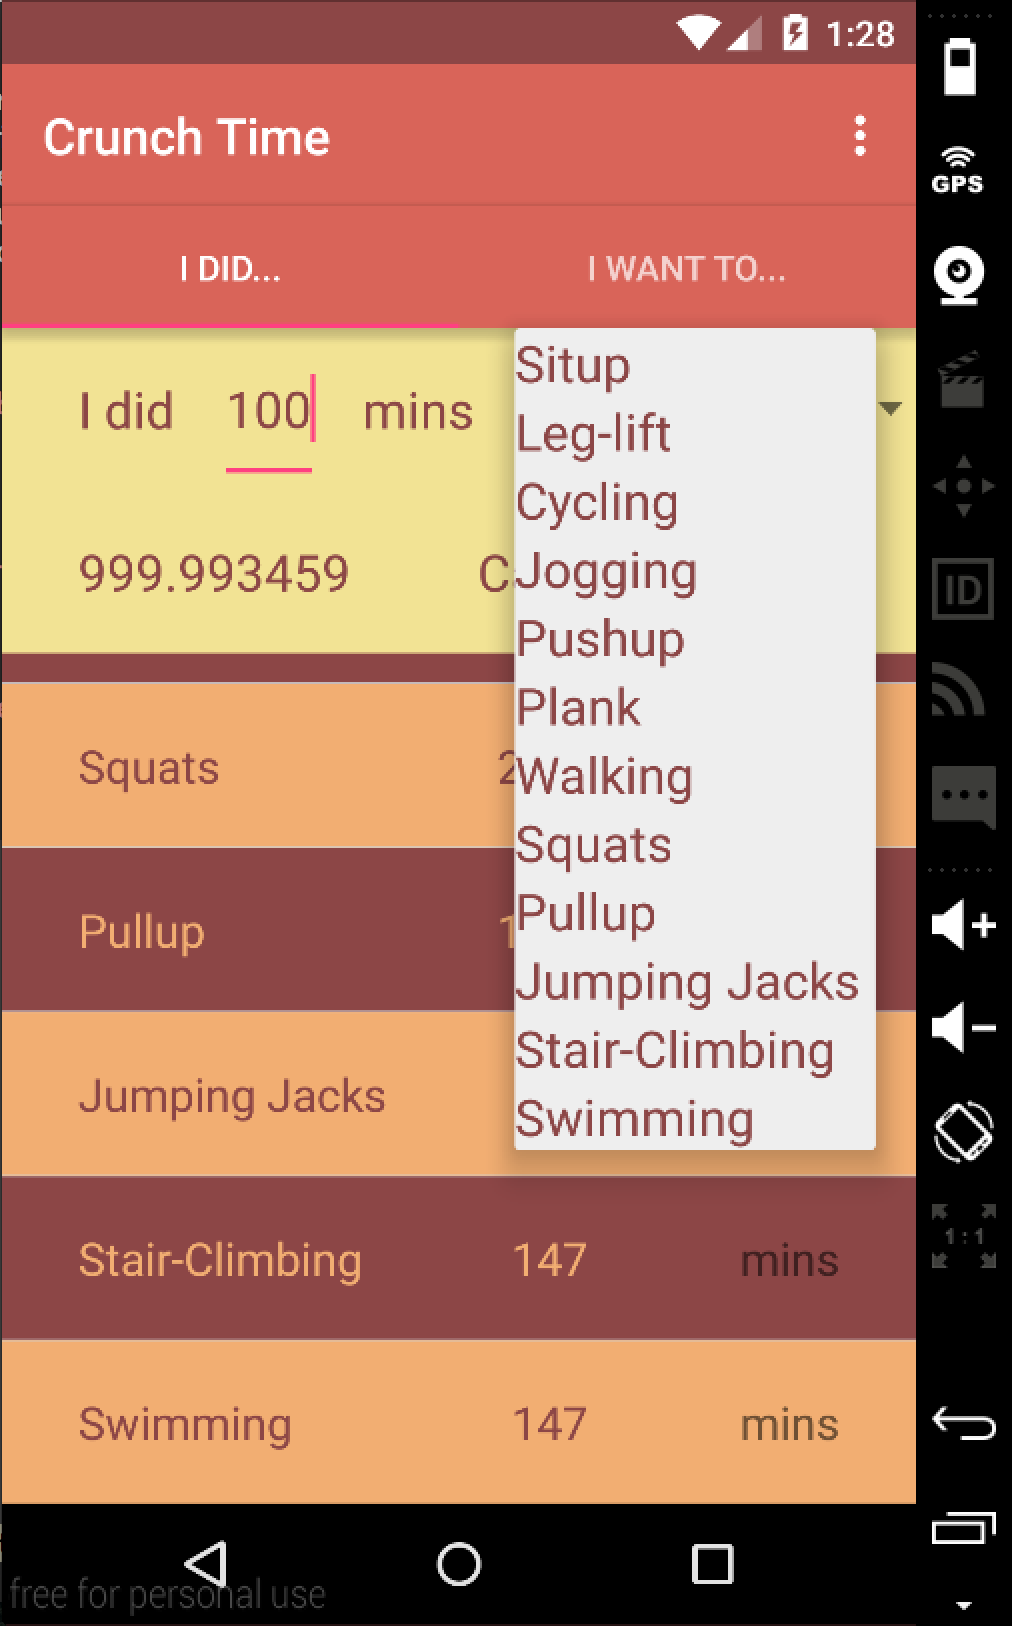
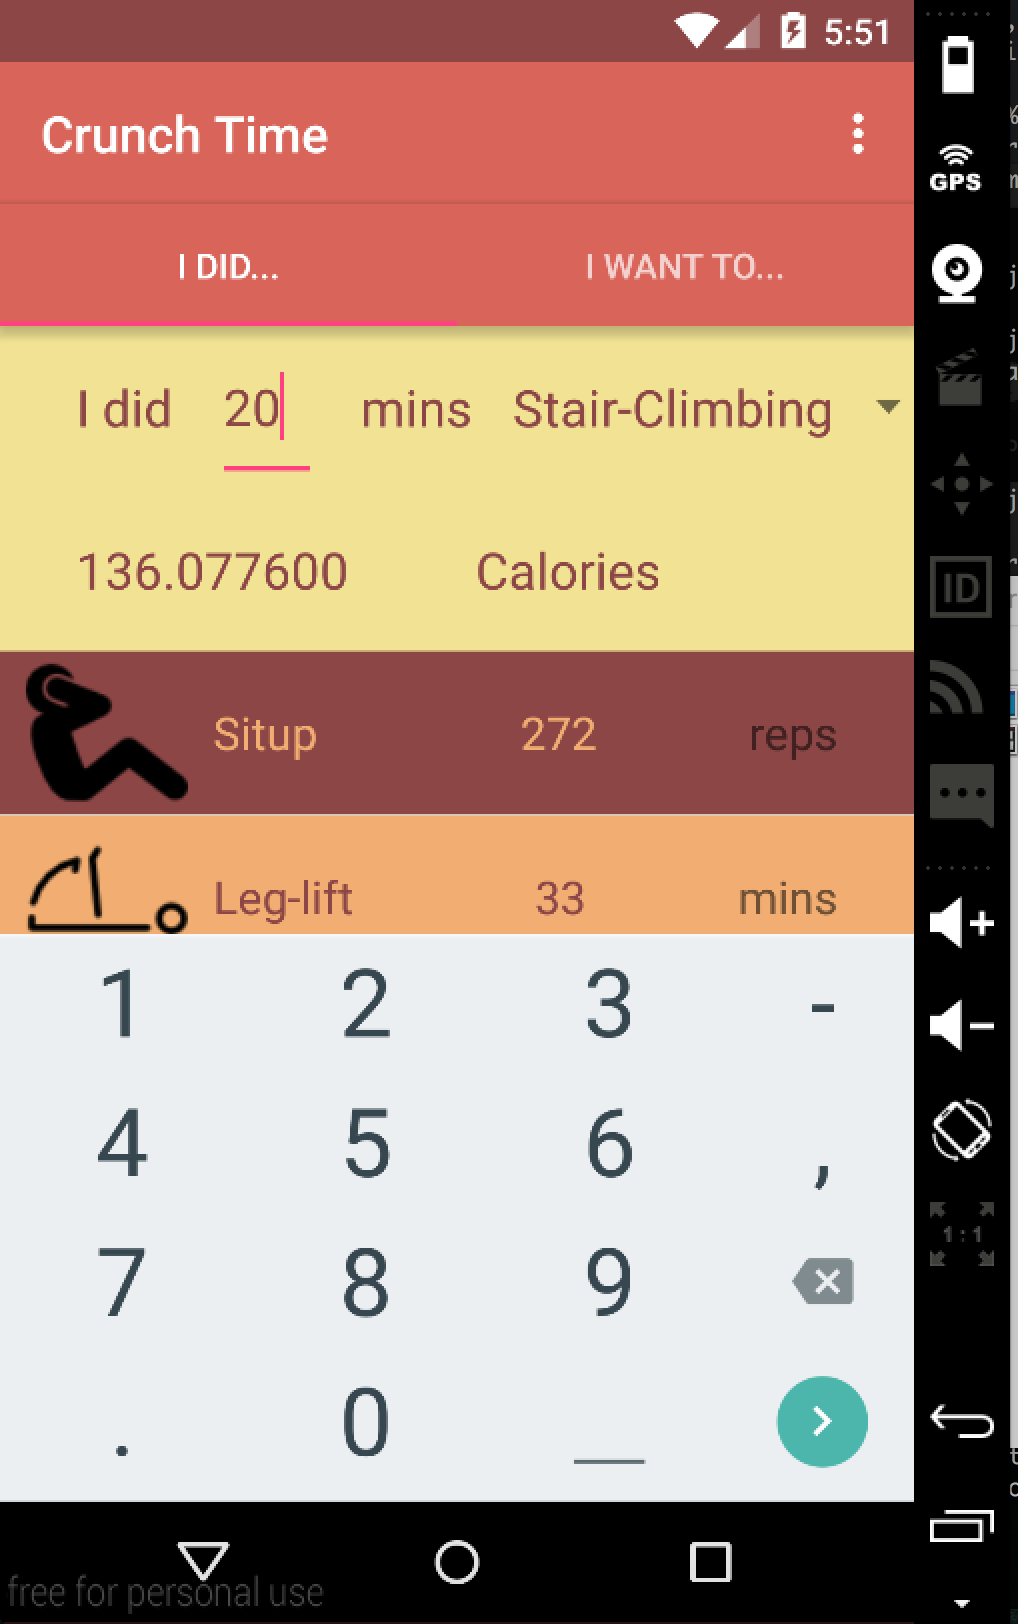
Updated Screenshots and linked them to README

diff --git a/README.md b/README.md
@@ -23,4 +23,4 @@ See [your demo video title here] (https://link_to_your_video)
 <img src="screenshots/shot5.png" height="400" alt="Screenshot"/>
 
 ## Acknowledgments
-
+<div>Icons made by <a href="http://www.freepik.com" title="Freepik">Freepik</a>, <a href="http://www.flaticon.com/authors/scott-de-jonge" title="Scott de Jonge">Scott de Jonge</a> from <a href="http://www.flaticon.com" title="Flaticon">www.flaticon.com</a> is licensed by <a href="http://creativecommons.org/licenses/by/3.0/" title="Creative Commons BY 3.0">CC BY 3.0</a></div>
